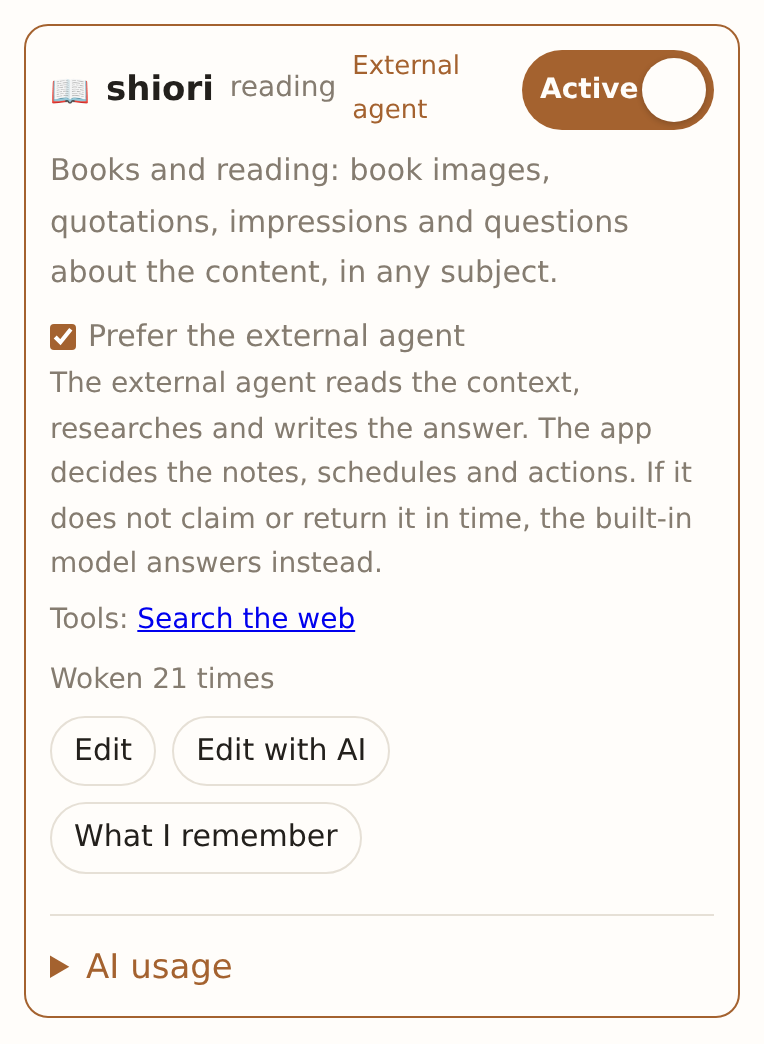
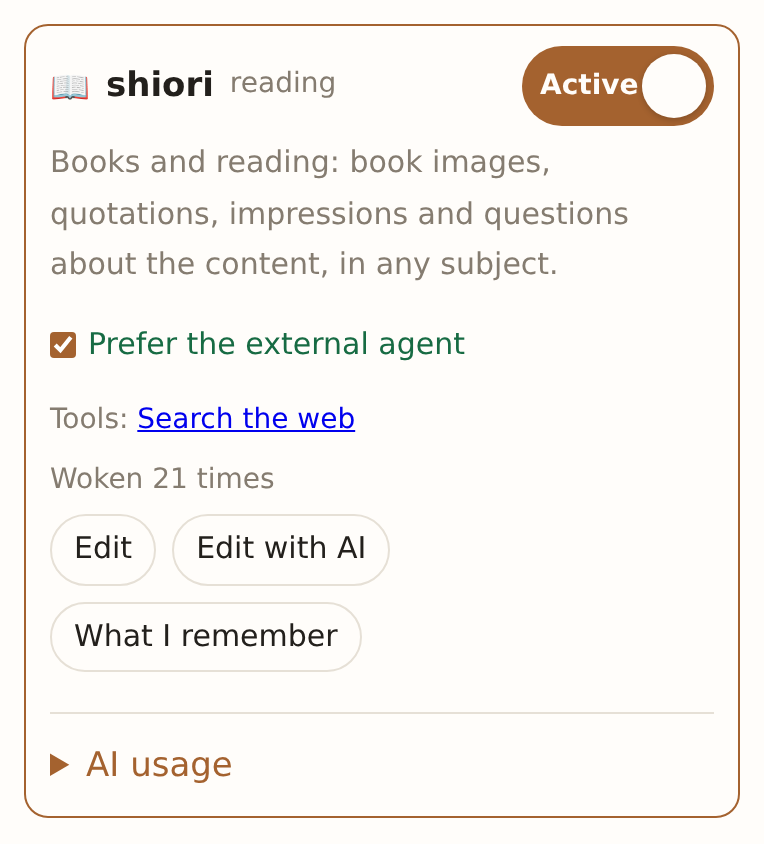
Simplify external agent preference on persona cards

diff --git a/frontend/src/personas.js b/frontend/src/personas.js
@@ -74,7 +74,6 @@ export function createPersonas({ onChange, onSearch, onPosted, getSettings }) {
   let toolNames = [];
   let mcpConfigured = false;
   let agentPaused = false;
-  let agentAway = false;
   // With no tab chosen yet, people come first when there are any.
   let tab = remembered("kakeratta.personas.tab", "", ["subject", "person"]);
   let order = remembered("kakeratta.personas.order", "added", ["added", "name"]);
@@ -97,7 +96,6 @@ export function createPersonas({ onChange, onSearch, onPosted, getSettings }) {
       toolNames = payload.tools || [];
       mcpConfigured = !!payload.mcpConfigured;
       agentPaused = !!payload.externalAgentPaused;
-      agentAway = !!payload.externalAgentAway;
       onChange?.(rows);
       draw();
     } catch (error) {
@@ -262,21 +260,9 @@ export function createPersonas({ onChange, onSearch, onPosted, getSettings }) {
     // "Prefer": the agent plans when it answers in time, and the built-in
     // model still takes the turn when it does not.
     const prefer = el("input", { type: "checkbox", checked: row.planner === "external" });
-    const hint = el("p", { class: "hint", hidden: row.planner !== "external" });
     const box = el("div", {}, el("div", { class: "compose-row" },
-      el("label", { class: "planner-option" }, prefer, el("span", { label: "外部エージェントを優先する" }))), hint);
-    const renderHint = () => {
-      hint.hidden = row.planner !== "external";
-      hint.textContent = t(!mcpConfigured
-        ? "外部エージェントが未接続です。設定 → 上級オプション → 外部連携 で接続してください。それまでは内蔵モデルが代わりに考えます。"
-        : agentPaused
-        ? "外部エージェントは一時停止中です。再開するまで内蔵モデルが考えます。"
-        : agentAway
-        ? "外部エージェントから応答がありません。接続があるまで内蔵モデルが考えます。"
-        : "外部エージェントが文脈を読んで調べ、回答を書きます。記憶・予定はアプリが決めます。時間内に取得・返却されなければ内蔵モデルが代わりに答えます。");
-    };
-    renderHint();
-    plannerControls.set(row.id, { prefer, box, renderHint });
+      el("label", { class: "planner-option" }, prefer, el("span", { label: "外部エージェントを優先する" }))));
+    plannerControls.set(row.id, { prefer, box });
     prefer.addEventListener("change", async () => {
       prefer.disabled = true;
       try {
@@ -294,14 +280,6 @@ export function createPersonas({ onChange, onSearch, onPosted, getSettings }) {
             if (control) {
               control.prefer.checked = current.planner === "external";
               control.box.hidden = !mcpConfigured || agentPaused;
-              control.renderHint();
-            }
-            if (current.planner === "external" && !card.plannerBadge) {
-              card.plannerBadge = el("span", { class: "tag", label: "外部エージェント" });
-              card.head.append(card.plannerBadge);
-            } else if (current.planner !== "external" && card.plannerBadge) {
-              card.plannerBadge.remove();
-              card.plannerBadge = null;
             }
           }
           onChange?.(rows);
@@ -324,8 +302,7 @@ export function createPersonas({ onChange, onSearch, onPosted, getSettings }) {
       "aria-label": t("{0} の有効・無効", shown.name),
       onchange: (event) => setActive(row.id, event.target.checked),
     });
-    const plannerBadge = row.planner === "external" ? el("span", { class: "tag", label: "外部エージェント" }) : null;
-    const control = { box, toggle, row, plannerBadge };
+    const control = { box, toggle, row };
     activeControls.set(row.id, control);
     box.append(
       el(
@@ -335,14 +312,12 @@ export function createPersonas({ onChange, onSearch, onPosted, getSettings }) {
         el("span", { class: "who", text: shown.name }),
         shown.note ? el("span", { class: "note-tag", text: shown.note }) : null,
         row.kind === "person" ? el("span", { class: "tag", label: "人物" }) : null,
-        plannerBadge,
         el("span", { class: "spacer" }),
         el("label", { class: "switch" },
           switchControl(toggle, { on: t("有効"), off: t("無効"), className: getLanguage() === "en" ? "persona-active-toggle" : "" })),
       ),
       el("p", { class: "domain", text: shown.domain }),
     );
-    control.head = box.firstChild;
     // A person is reached by these words and nothing else, so they are what
     // the card has to show.
     if (row.kind === "person") {

diff --git a/frontend/manual/index.html b/frontend/manual/index.html
@@ -542,7 +542,7 @@
           </ol>
           <p>LLM Connect Hub は Obsidian を開いている間、1分ごとに依頼を確認します。依頼がないときにモデルのトークンは使いません。確認の間隔が1分なので、<strong>取得を待つ時間</strong>（外部エージェントが依頼を受け取るまで kakeratta が待つ時間）は1分より長くしておいてください。Obsidian を閉じて取得を待つ時間が過ぎると不在とみなされ（下の「担当を任せる」を参照）、それ以降の依頼は待たずに内蔵モデルが答えます。閉じた直後に届いた依頼は、待ち時間が過ぎてから内蔵モデルが答えます。詳しい設定は <a href="https://github.com/takeshy/obsidian-llm-connect-hub/blob/main/README_ja.md" rel="noopener">LLM Connect Hub の説明</a> を見てください。</p>
           <h3>担当を任せる</h3>
-          <figure><img src="/captures/ja/persona-planner.png" alt="担当カードで外部エージェントを優先するをONにしたところ" loading="lazy" width="382" height="401" /></figure>
+          <figure><img src="/captures/ja/persona-planner.png" alt="担当カードで外部エージェントを優先するをONにしたところ" loading="lazy" width="382" height="327" /></figure>
           <ol>
             <li><strong>担当</strong> 画面で、任せたい担当の <strong>外部エージェントを優先する</strong> をONにします。このチェックは、接続先を設定し、設定の「外部エージェントを使う」がONのときだけ表示されます。</li>
             <li>いつもどおり投稿します。その担当に届いた投稿は、外部エージェントが調べて回答を書きます。記憶・予定は kakeratta が決めます。返事は担当の名前で「外部エージェント」の印付きで届きます。</li>
@@ -1163,7 +1163,7 @@
           </ol>
           <p>LLM Connect Hub checks for asks once a minute while Obsidian is open, and uses no model tokens when there are none. Because it checks once a minute, keep <strong>Wait for a claim</strong> (how long kakeratta waits for the agent to pick up an ask) longer than a minute. Once Obsidian has been closed for longer than that wait, the agent is taken to be away (see <em>Hand a persona over</em> below) and later asks go to the built-in model without waiting. An ask that arrives just after Obsidian closes is answered by the built-in model when its wait runs out. For the full settings, see the <a href="https://github.com/takeshy/obsidian-llm-connect-hub#readme" rel="noopener">LLM Connect Hub README</a>.</p>
           <h3>Hand a persona over</h3>
-          <figure><img src="/captures/en/persona-planner.png" alt="A persona card preferring the external agent" loading="lazy" width="382" height="522" /></figure>
+          <figure><img src="/captures/en/persona-planner.png" alt="A persona card preferring the external agent" loading="lazy" width="382" height="422" /></figure>
           <ol>
             <li>In <strong>Personas</strong>, turn on <strong>Prefer the external agent</strong> for the persona. The checkbox appears only while a connection is configured and <strong>Use the external agent</strong> is enabled in settings.</li>
             <li>Post as usual. For posts that reach that persona, the external agent researches and writes the answer; kakeratta decides memory and schedules. The reply arrives under the persona's name, marked <strong>External agent</strong>.</li>

diff --git a/frontend/src/styles.css b/frontend/src/styles.css
@@ -7,6 +7,7 @@
   --accent: #a4622f;
   --accent-soft: #f4e7dc;
   --warn: #b3502f;
+  --planner-label: #176b43;
   color-scheme: light dark;
 }
 
@@ -20,6 +21,7 @@
     --accent: #d79a68;
     --accent-soft: #302722;
     --warn: #e0866a;
+    --planner-label: #85dfa9;
   }
 }
 
@@ -670,9 +672,8 @@ input[type="text"], input[type="search"], input[type="email"], input[type="passw
 .note-tag { font-size: 0.875rem; color: var(--muted); }
 .domain { margin: 0; font-size: 0.9375rem; color: var(--muted); }
 .tools { margin: 0; font-size: 0.875rem; color: var(--muted); }
-/* A sub-option of the persona, kept quieter than its active toggle so it is
-   not mistaken for it. */
-.planner-option { display: inline-flex; align-items: center; gap: 6px; font-size: 0.9375rem; color: var(--muted); cursor: pointer; }
+/* Keep the labeled planner checkbox separate from persona activation. */
+.planner-option { display: inline-flex; align-items: center; gap: 6px; margin-block: 0.5rem; font-size: 0.9375rem; color: var(--planner-label); cursor: pointer; }
 .planner-option input { width: auto; margin: 0; accent-color: var(--accent); }
 .switch { display: inline-flex; align-items: center; gap: 6px; font-size: 0.9375rem; cursor: pointer; }
 .switch input { width: auto; }

diff --git a/docs/system/frontend.md b/docs/system/frontend.md
@@ -26,13 +26,13 @@ Panels have dedicated modules for persona creation and editing, routing checks, 
 
 Persona badges disable browser text selection and the iOS touch callout (`user-select`, `-webkit-user-select`, and `-webkit-touch-callout` in [styles.css](../../frontend/src/styles.css)), so holding a badge opens its menu without leaving native text-selection handles over the controls. Their existing pointer handlers continue to handle taps, holds, and dragging.
 
-Persona cards in [personas.js](../../frontend/src/personas.js) place the wake count above a wrapping action row with bordered Edit, Edit with AI, and View memory buttons; custom personas also have a Delete action aligned to the end. The external-agent preference uses a subdued native checkbox, distinct from the persona's active switch. Timeline post and reply headers stay on one line: names and model badges can shrink with an ellipsis, while timestamps and action buttons keep their size. Mobile headers reserve space for the top-right delete button and use narrower gaps and chip padding ([styles.css](../../frontend/src/styles.css)).
+Persona cards in [personas.js](../../frontend/src/personas.js) place the wake count above a wrapping action row with bordered Edit, Edit with AI, and View memory buttons; custom personas also have a Delete action aligned to the end. The external-agent preference keeps its native checkbox and labeled row, with a high-contrast green label in both light and dark themes and 0.5rem top/bottom margins. Persona headers omit the external-agent badge, so the neighboring activation switch clearly applies to the persona. The preference row has no repeated explanatory or availability paragraph; the manual describes external-agent behavior and fallback. Timeline post and reply headers stay on one line: names and model badges can shrink with an ellipsis, while timestamps and action buttons keep their size. Mobile headers reserve space for the top-right delete button and use narrower gaps and chip padding ([styles.css](../../frontend/src/styles.css)).
 
 The built-in `sona` (`routine`) is labeled **Preparation** and declares scheduling and weather forecasts. Its sharing check-in description includes upcoming plans alongside recent records and memory; its default activation is defined by the backend settings.
 
 The settings panel uses a shrinkable single-column grid, including nested fields and advanced groups. Switch-related content updates preserve scrolling ancestors through `dom.js` `preserveScroll`, including OpenRouter model visibility and the editor's memory fields. MCP connection refreshes rebuild a separate body while leaving the external-agent switch container mounted. Verification: [dom-scroll.test.js](../../tests/dom-scroll.test.js), [settings.test.js](../../tests/settings.test.js), and [external-agent.test.js](../../tests/external-agent.test.js). On phones up to 600px, its body and sheet heading have matching 1.5-rem left/right padding (at least the safe-area inset), giving 24 pixels at the standard text size. Native controls have zero minimum width and a maximum width of their container, and long text can wrap anywhere; enlarged text and device-specific option names therefore do not force horizontal scrolling. Storybook provides a text-size toolbar and an **ExtraLarge** settings story using the same `text-size.js` scaling as the application.
 
-Settings and persona feature toggles (activation, memory, always Ultra, provider choice, Markdown input, and external-agent use) use the same ON/OFF switch as scheduled push notifications. [dom.js](../../frontend/src/dom.js) `switchControl` wraps a native checkbox with `role="switch"`, a visible ON/OFF track, keyboard focus styling, and a disabled state. The standard switch measures 4.625 × 2.5 rem (74 × 40px at the standard text size), scales with text preferences, and uses the theme accent color when enabled. The activation switch on each persona card displays **有効 / Active** or **無効 / Inactive** inside its track, with no adjacent label; its accessible name identifies the persona. Changing activation saves the active ID list and updates existing switches, card styling, and check-in availability in place, preserving the panel DOM and scroll position. Activation switches are disabled while saving; a failed request restores their saved state. Planner preference switches also update their existing card controls, badge, and hint in place, restoring the saved preference on failure. Verification: [personas-panel.test.js](../../tests/personas-panel.test.js). Checkboxes for selecting entries or terms retain their selection appearance.
+Settings and persona feature toggles (activation, memory, always Ultra, provider choice, Markdown input, and external-agent use) use the same ON/OFF switch as scheduled push notifications. [dom.js](../../frontend/src/dom.js) `switchControl` wraps a native checkbox with `role="switch"`, a visible ON/OFF track, keyboard focus styling, and a disabled state. The standard switch measures 4.625 × 2.5 rem (74 × 40px at the standard text size), scales with text preferences, and uses the theme accent color when enabled. The activation switch on each persona card displays **有効 / Active** or **無効 / Inactive** inside its track, with no adjacent label; its accessible name identifies the persona. Changing activation saves the active ID list and updates existing switches, card styling, and check-in availability in place, preserving the panel DOM and scroll position. Activation switches are disabled while saving; a failed request restores their saved state. Planner preference checkboxes also update their existing card controls in place, restoring the saved preference on failure. Verification: [personas-panel.test.js](../../tests/personas-panel.test.js). Checkboxes for selecting entries or terms retain their selection appearance.
 
 The manual and Storybook examples describe place search without route-search instructions. The removed built-in `route` tool is omitted from displayed tool lists and editor choices by `uniqueTools` in [tool_labels.js](../../frontend/src/tool_labels.js). Shared tool labels in the persona editor, AI draft preview, and persona cards describe `reverse_geocode` (including `geo.reverse_geocode`) as **Look up place names from coordinates** (Japanese: **座標から地名を調べる**) and `schedules_list` as **Check personas' schedules** (Japanese: **担当の予定を確認する**), with English translations in [i18n.js](../../frontend/src/i18n.js).
 
